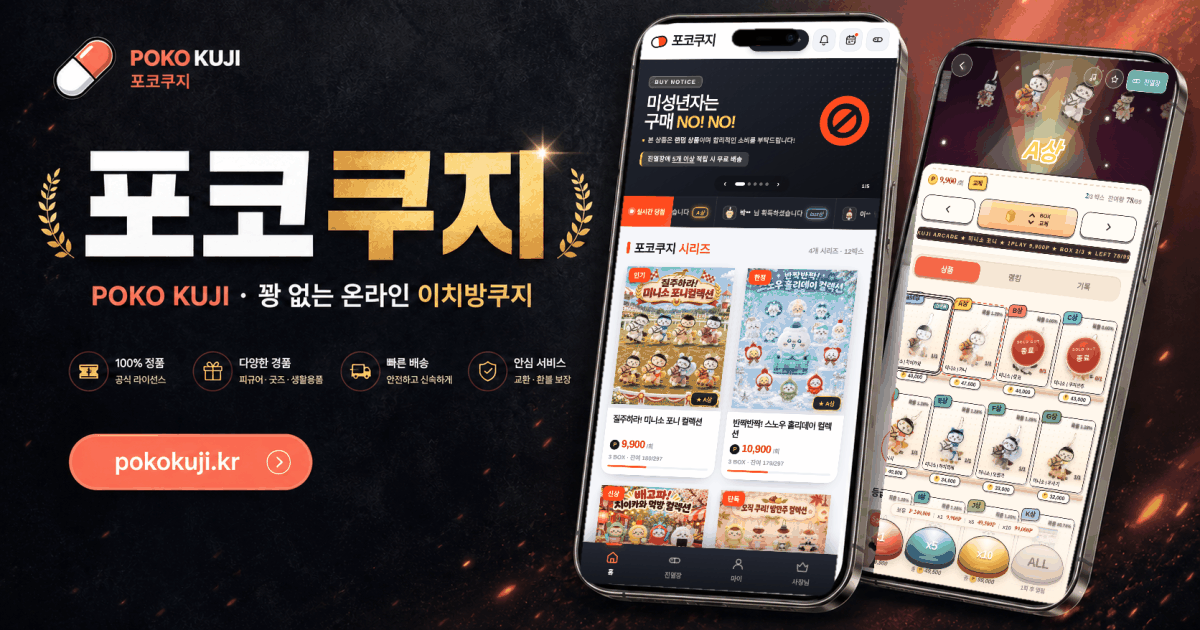
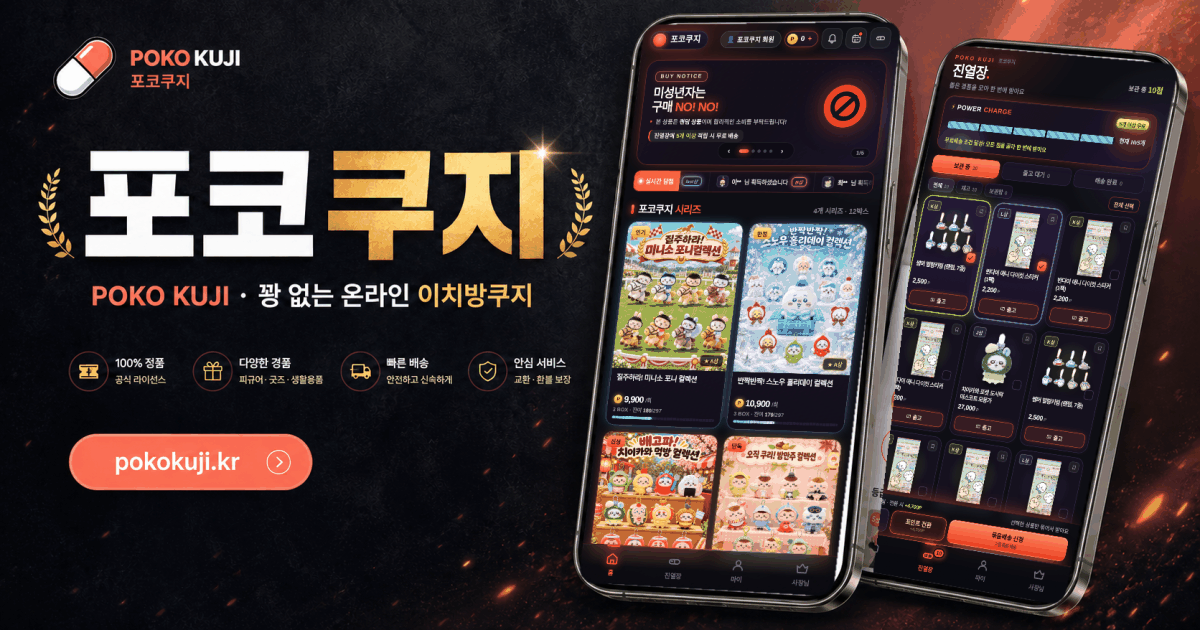
🖼 OG 이미지 v3 — 우측 두 아이폰 화면을 최신 다크 아케이드(홈·진열장) 실제 화면으로 교체 + og:image?v=3

Changed region(s): [[0.4625, 0.0302, 0.9867, 0.9651]]

diff --git a/index.html b/index.html
@@ -11,12 +11,12 @@
 <meta property="og:description" content="꽝 없는 이치방쿠지 · 시리즈별 3박스 · 1회 9,900P부터">
 <link rel="canonical" href="https://pokokuji.kr/">
 <meta property="og:url" content="https://pokokuji.kr/">
-<meta property="og:image" content="https://pokokuji.kr/og-pokokuji.png?v=2">
+<meta property="og:image" content="https://pokokuji.kr/og-pokokuji.png?v=3">
 <meta property="og:image:width" content="1200">
 <meta property="og:image:height" content="630">
 <meta property="og:image:alt" content="포코쿠지 POKO KUJI · 치이카와 이치방쿠지 4 시리즈">
 <meta name="twitter:card" content="summary_large_image">
-<meta name="twitter:image" content="https://pokokuji.kr/og-pokokuji.png?v=2">
+<meta name="twitter:image" content="https://pokokuji.kr/og-pokokuji.png?v=3">
 <meta name="twitter:image:alt" content="포코쿠지 POKO KUJI · 치이카와 이치방쿠지 4 시리즈">
 <meta name="twitter:title" content="포코쿠지 (POKO KUJI) · 치이카와 시리즈 4">
 <meta name="twitter:description" content="꽝 없는 이치방쿠지 · 시리즈별 3박스 · 1회 9,900P부터">
